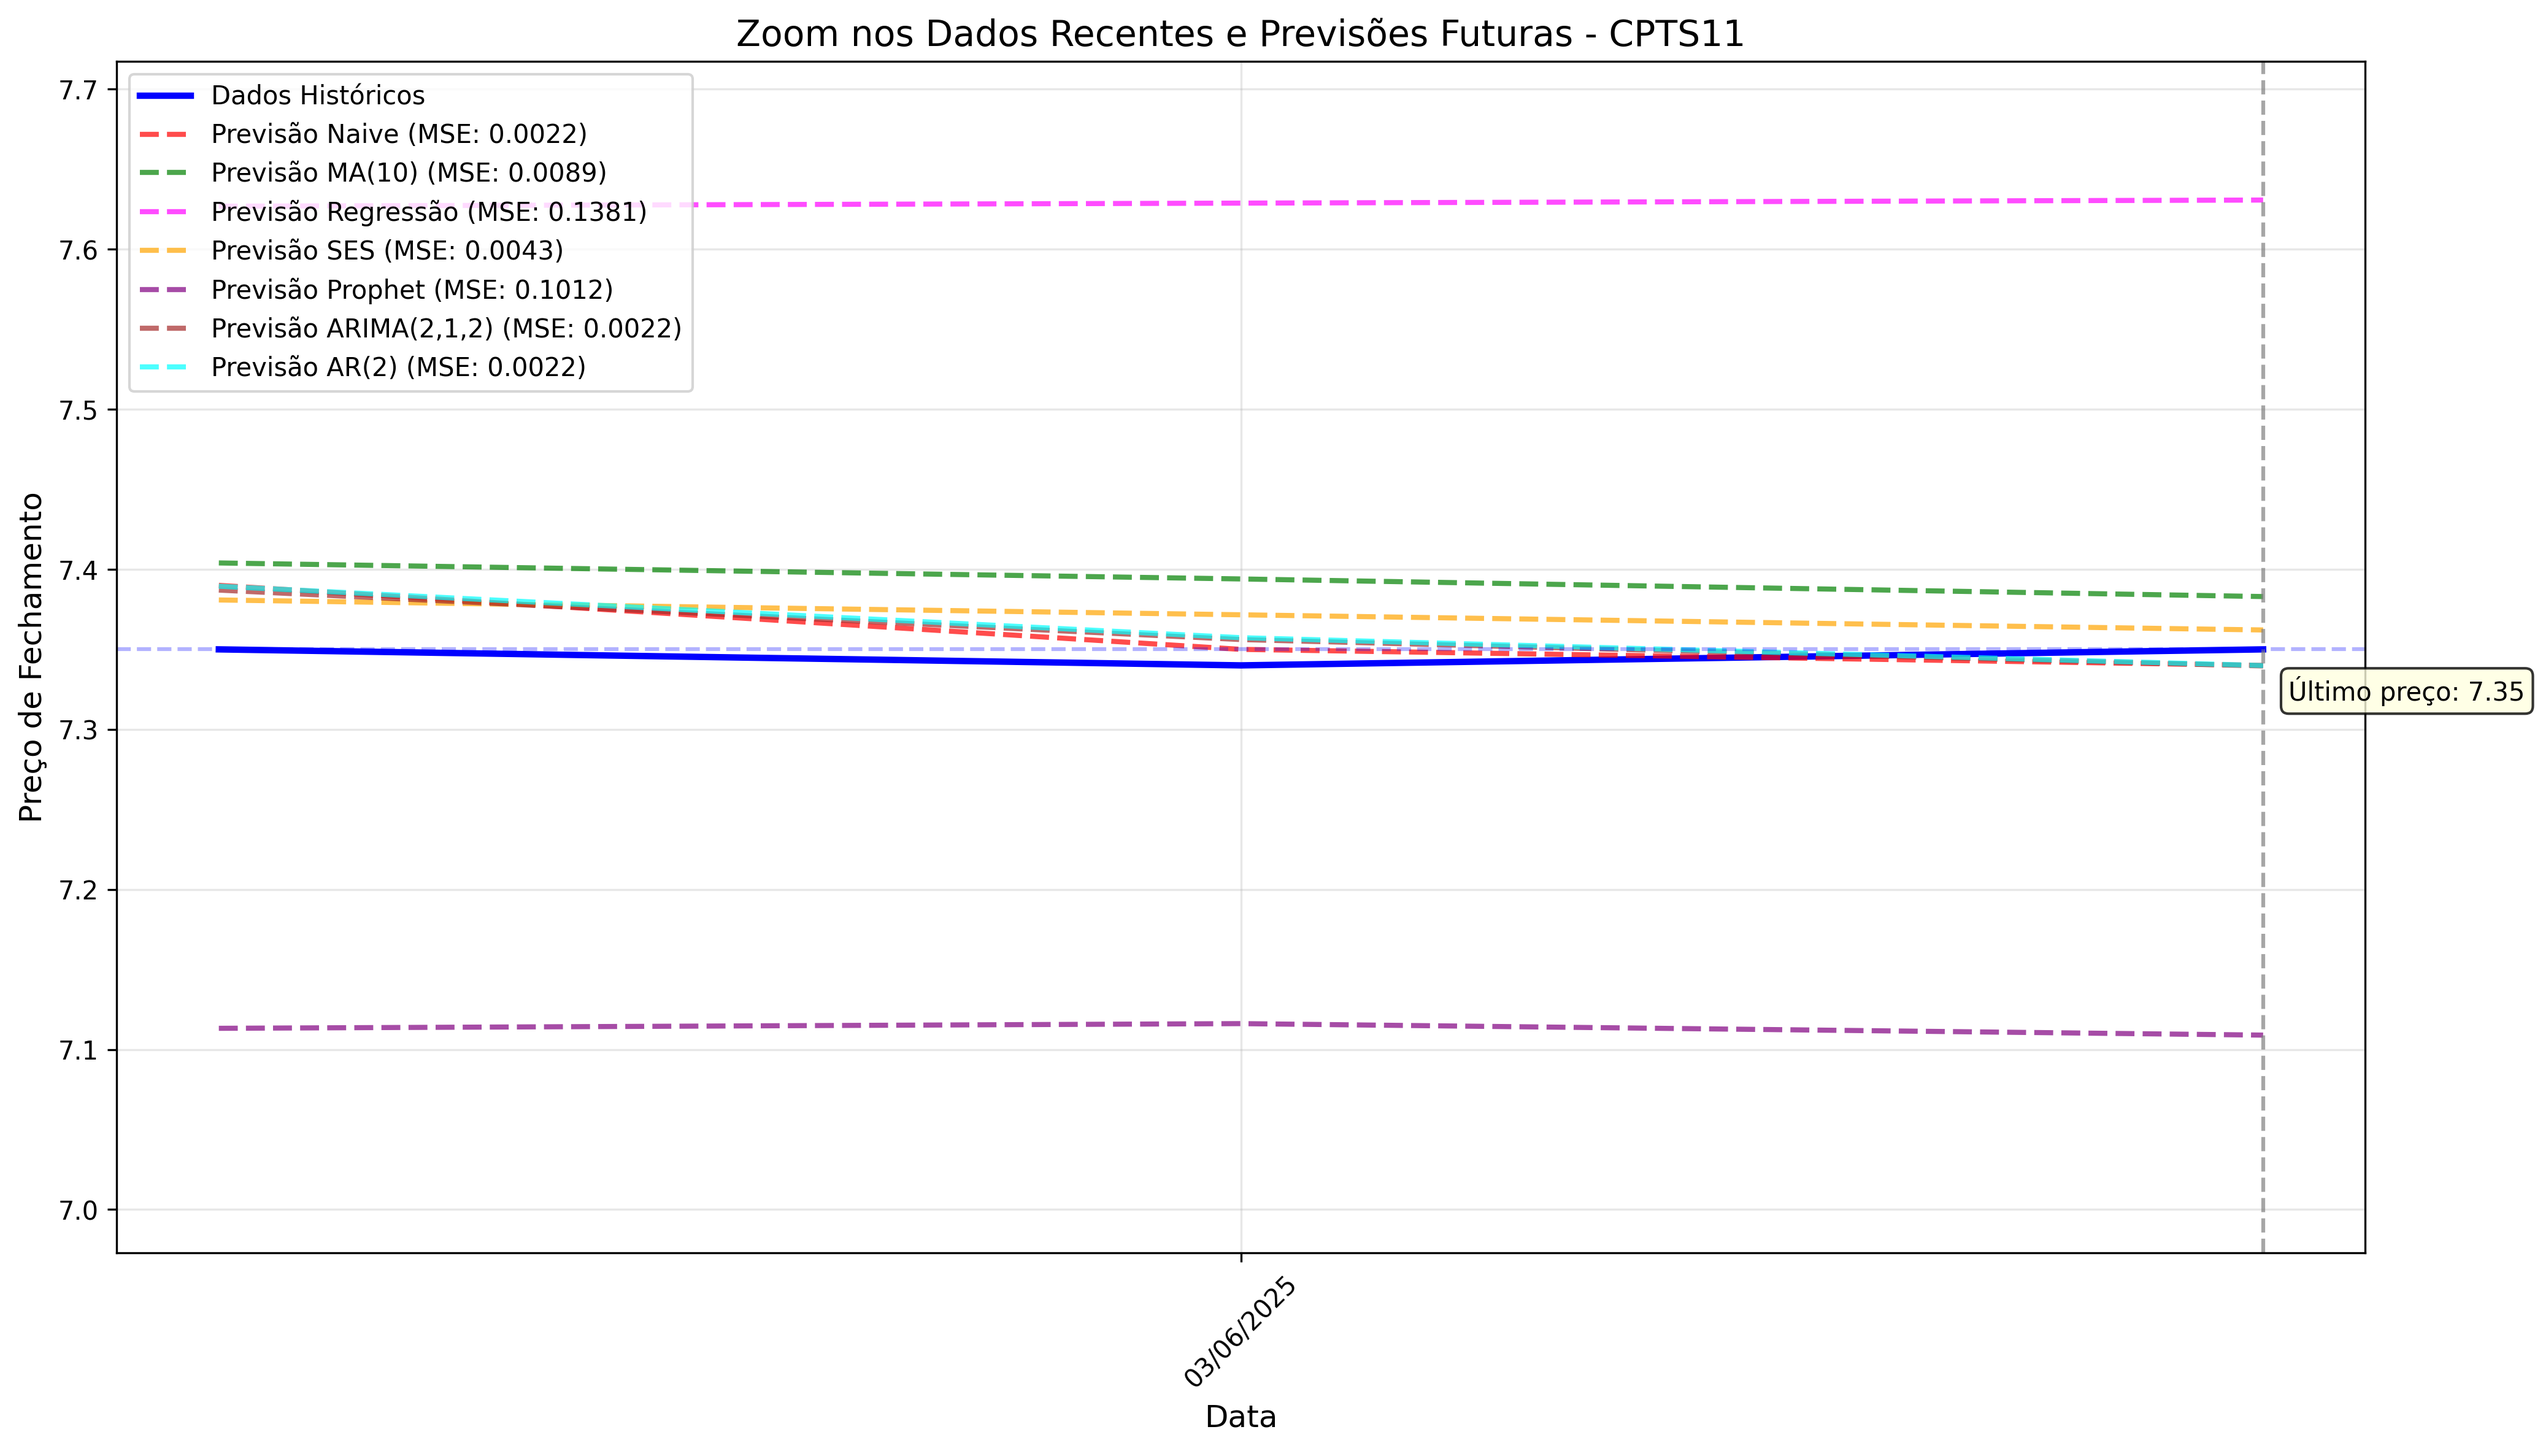
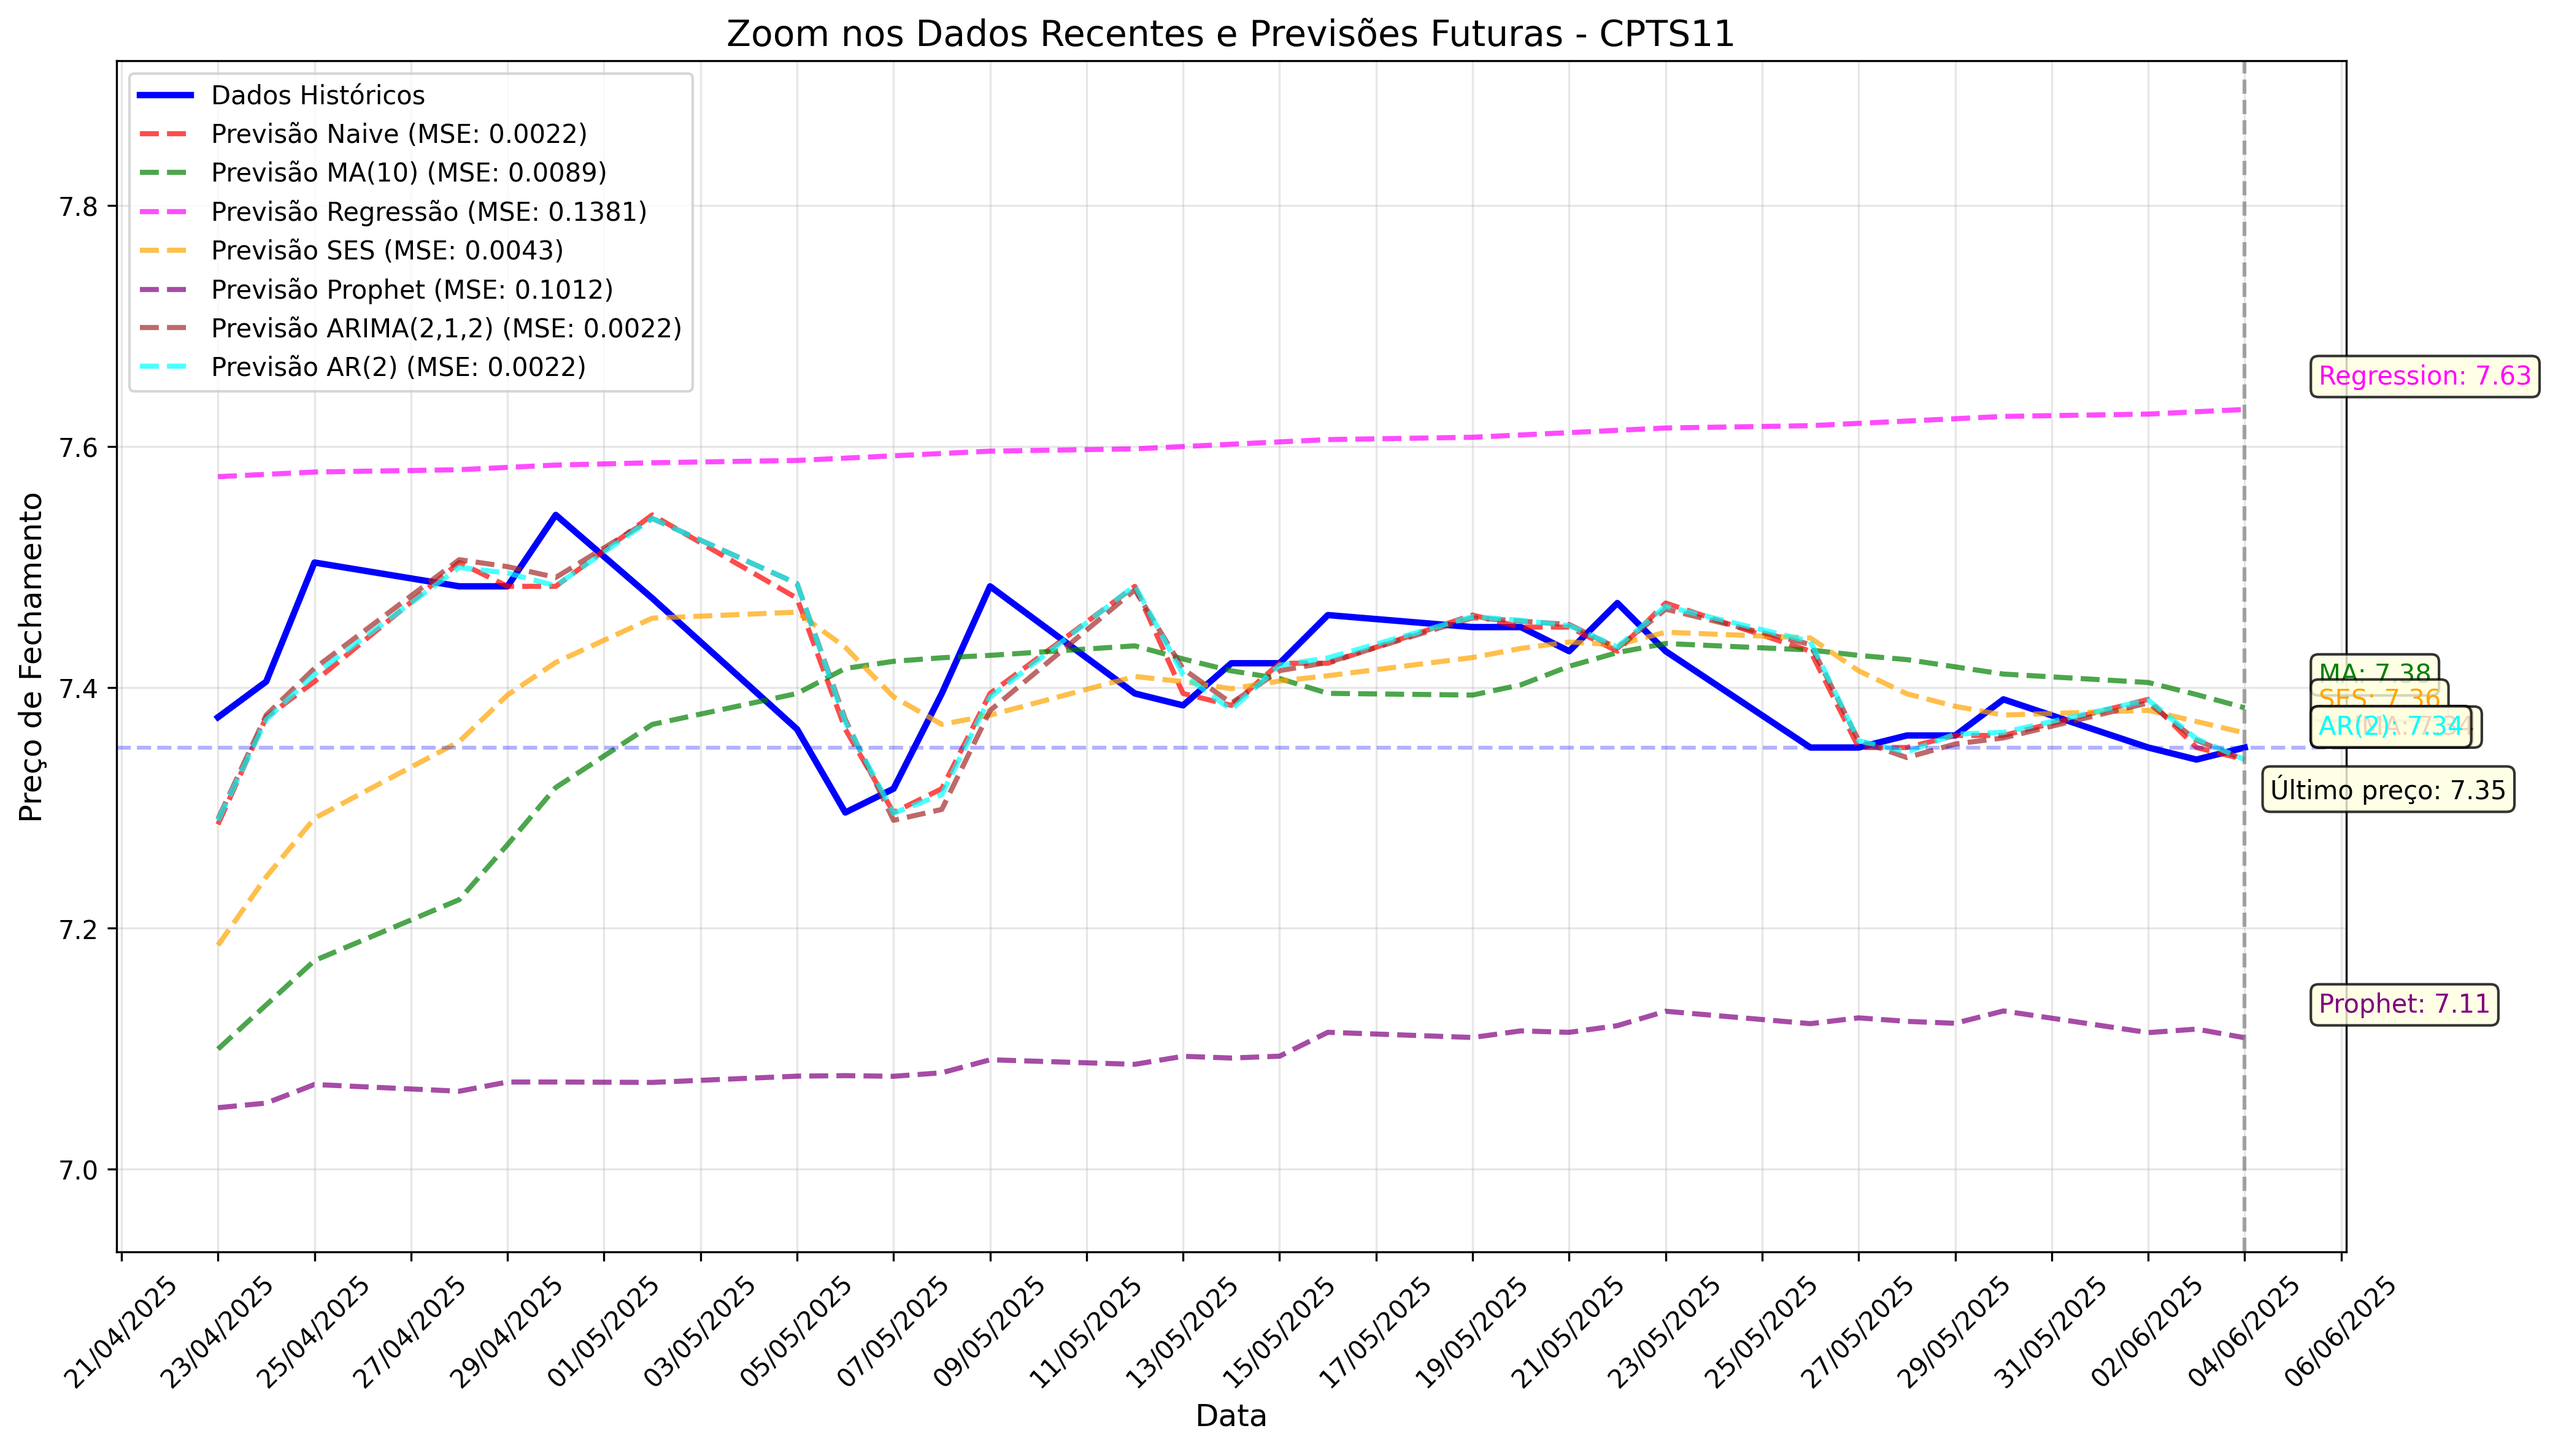
ATUALIZA: Aumenta o intervalo de dias exibidos na função de plotagem de modelos para 300 dias. Adiciona nova função para plotar gráficos individuais de cada modelo, incluindo cálculo de MSE e salvamento dos gráficos gerados. Atualiza a chamada da função de plotagem com zoom para 30 dias.

diff --git a/main.py b/main.py
@@ -78,7 +78,7 @@ def calculate_mse(df, test_size=60):
     
     return results
 
-def plot_all_models(df, days_to_show=90):
+def plot_all_models(df, days_to_show=300):
     """
     Plota os dados originais e as previsões dos modelos a partir dos arquivos CSV
     """
@@ -350,11 +350,10 @@ def plot_all_models(df, days_to_show=90):
     for model, mse in mse_results.items():
         print(f"{model}: {mse:.6f}")
     
-    # Identificar os 3 melhores modelos com base no MSE
+    
     sorted_models = sorted(mse_results.items(), key=lambda x: x[1])
-    top_3_models = sorted_models[:3]
-    print("\nTop 3 modelos com menor MSE:")
-    for model, mse in top_3_models:
+    print("\nModelos com menor MSE:")
+    for model, mse in sorted_models:
         print(f"{model}: {mse:.6f}")
     
 
@@ -575,6 +574,100 @@ def plot_zoom_graph(df, days_to_show=30, future_days=5):
     # Mostrar o gráfico
     plt.show()
 
+def plot_individual_models(df, days_to_show=300):
+    """
+    Plota gráficos individuais para cada modelo
+    """
+    # Carregar as previsões dos arquivos CSV
+    models_data = {
+        'Naive': ('predictions_naive.csv', 'red'),
+        'MA': ('predictions_ma.csv', 'green'),
+        'Regression': ('predictions_regression.csv', 'magenta'),
+        'SES': ('predictions_ses.csv', 'orange'),
+        'Prophet': ('predictions_prophet.csv', 'purple'),
+        'ARIMA': ('predictions_arima.csv', 'brown'),
+        'AR(2)': ('predictions_ar2.csv', 'cyan')
+    }
+    
+    # Preparar dados para plotagem
+    recent_data = df.iloc[-days_to_show:].copy()
+    
+    for model_name, (filename, color) in models_data.items():
+        file_path = f'models_output/{filename}'
+        if not os.path.exists(file_path):
+            continue
+            
+        # Carregar previsões do modelo
+        predictions = pd.read_csv(file_path, index_col=0, parse_dates=True)
+        
+        # Calcular MSE
+        common_dates = df.index.intersection(predictions.index)
+        mse = mean_squared_error(df.loc[common_dates, 'Close'], 
+                               predictions.loc[common_dates, 'Prediction'])
+        
+        # Criar figura individual
+        plt.figure(figsize=(12, 6))
+        
+        # Plotar dados históricos
+        plt.plot(recent_data.index, recent_data['Close'], 
+                label='Dados Históricos', color='blue', linewidth=2)
+        
+        # Filtrar dados recentes para o gráfico
+        start_date = recent_data.index[0]
+        model_recent = predictions[predictions.index >= start_date]
+        
+        # Plotar previsões do modelo
+        plt.plot(model_recent.index, model_recent['Prediction'],
+                label=f'Previsão {model_name} (MSE: {mse:.4f})',
+                color=color, linestyle='--', alpha=0.7)
+        
+        # Plotar previsão para o próximo dia
+        next_date = predictions.index[-1] + pd.Timedelta(days=1)
+        next_pred = predictions['Prediction'].iloc[-1]
+        plt.plot(next_date, next_pred, 'o', color=color, markersize=8)
+        
+        # Adicionar linha vertical para o último dia conhecido
+        plt.axvline(x=df.index[-1], color='gray', linestyle='--', alpha=0.7)
+        
+        # Configurar eixo X
+        plt.gca().xaxis.set_major_formatter(mdates.DateFormatter('%d/%m/%Y'))
+        plt.gca().xaxis.set_major_locator(mdates.WeekdayLocator(interval=2))
+        
+        # Adicionar elementos do gráfico
+        plt.grid(True, alpha=0.3)
+        plt.xlabel('Data', fontsize=12)
+        plt.ylabel('Preço de Fechamento', fontsize=12)
+        plt.title(f'Modelo {model_name} - CPTS11', fontsize=14)
+        plt.legend(loc='best')
+        
+        # Rotacionar rótulos do eixo X
+        plt.xticks(rotation=45)
+        
+        # Adicionar anotações
+        last_price = df['Close'].iloc[-1]
+        plt.annotate(f'Último: {last_price:.2f}',
+                    xy=(df.index[-1], last_price),
+                    xytext=(10, -20),
+                    textcoords='offset points',
+                    bbox=dict(boxstyle='round', fc='lightyellow', alpha=0.8))
+        
+        plt.annotate(f'Previsão: {next_pred:.2f}',
+                    xy=(next_date, next_pred),
+                    xytext=(10, 10),
+                    textcoords='offset points',
+                    bbox=dict(boxstyle='round', fc='lightyellow', alpha=0.8),
+                    color=color)
+        
+        plt.tight_layout()
+        
+        # Salvar gráfico individual
+        output_dir = 'graficos'
+        if not os.path.exists(output_dir):
+            os.makedirs(output_dir)
+        plt.savefig(f'{output_dir}/modelo_{model_name.lower().replace("(","").replace(")","")}.png',
+                    dpi=300, bbox_inches='tight')
+        plt.close()
+
 if __name__ == "__main__":
     # Carregar dados
     data = load_data()
@@ -584,4 +677,7 @@ if __name__ == "__main__":
     plot_all_models(data)
     
     # Plotar gráfico com zoom nos dados recentes
-    plot_zoom_graph(data, days_to_show=3, future_days=1)
+    plot_zoom_graph(data, days_to_show=30, future_days=1)
+    
+    # Plotar gráficos individuais para cada modelo
+    plot_individual_models(data)
